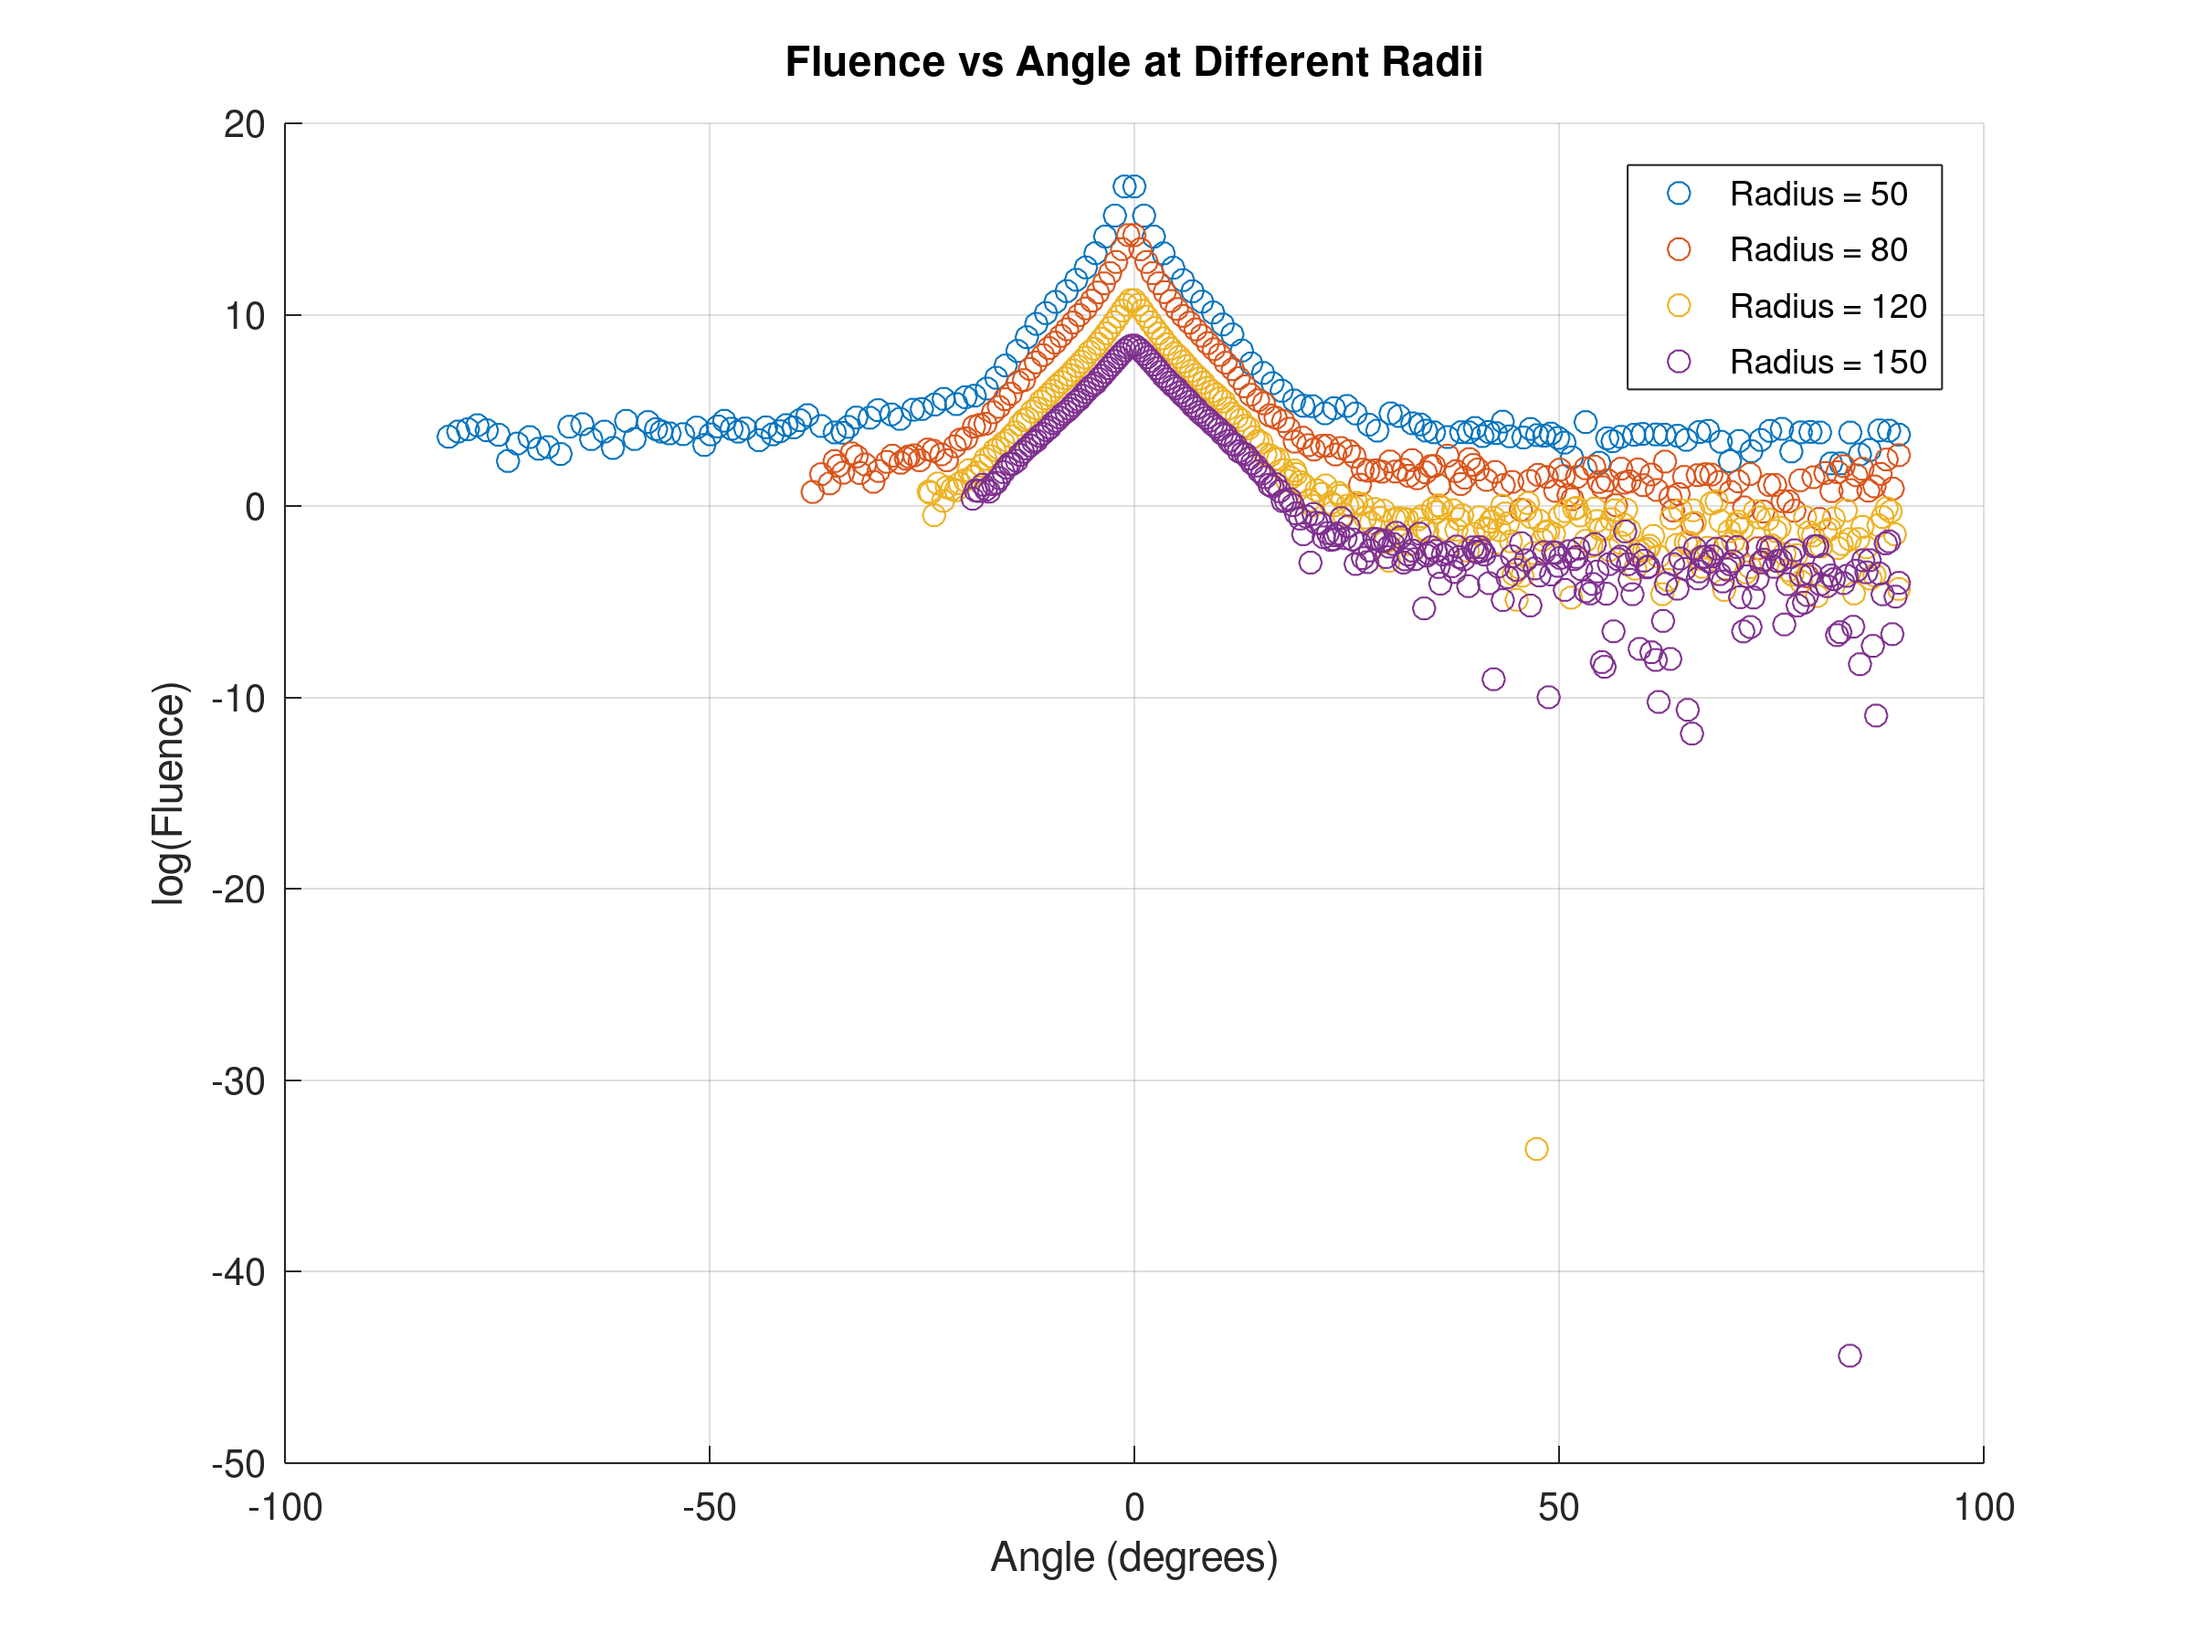
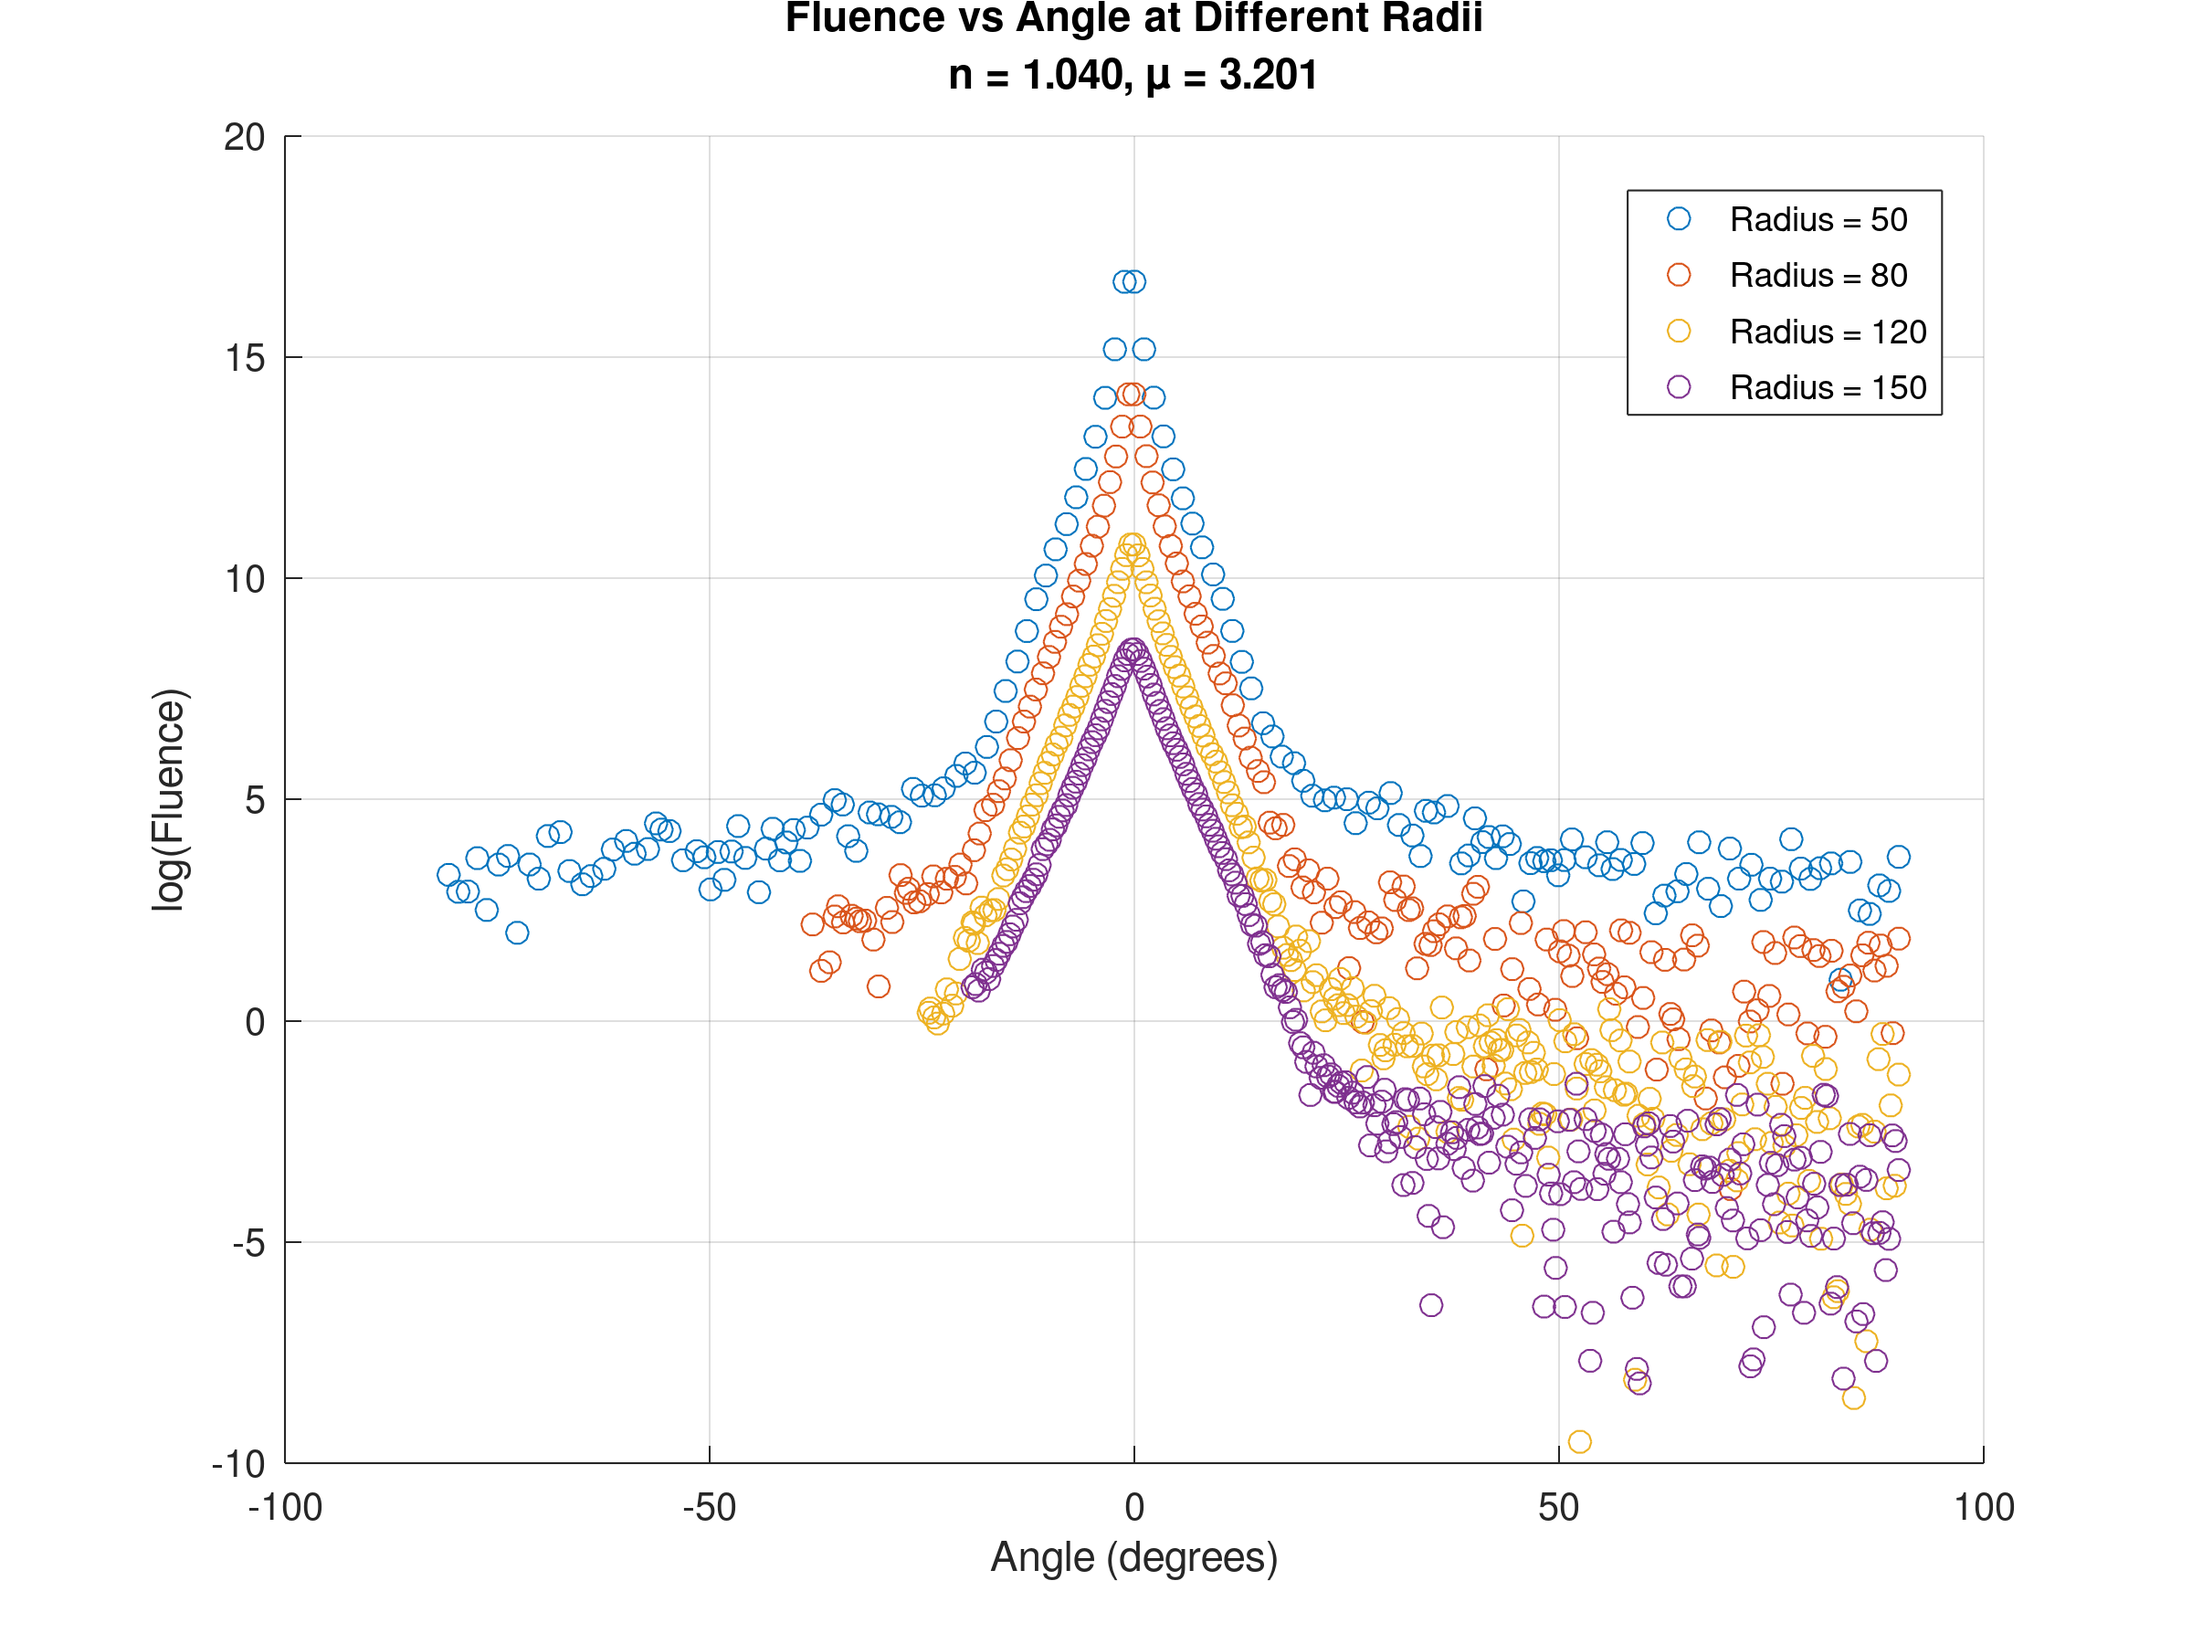
additions

diff --git a/MonteCarlo/MonteCarloProj/FornierForandExample2.m b/MonteCarlo/MonteCarloProj/FornierForandExample2.m
@@ -85,8 +85,10 @@ end
 
 xlabel('Angle (degrees)');
 ylabel('log(Fluence)');
-title('Fluence vs Angle at Different Radii');
-
+title({
+    'Fluence vs Angle at Different Radii'
+    'n = 1.040, \mu = 3.201'
+});
 legend('show');
 grid on;
 hold off;
